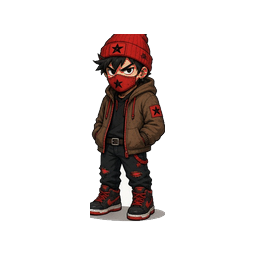
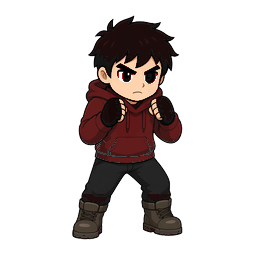
Lock Hooligan canon grey/blue/red for upgrade levels
Deposit approved combat/disguise ladder into game/public and agent
assets, colorize blue/red from grey C, and document HOOLIGAN_CANON
as the only source for new game versions.

Changed region(s): [[0.2812, 0.0625, 0.7188, 0.9375]]

diff --git a/unit-icons-agent/docs/gallery/unit-icons-cutouts.html b/unit-icons-agent/docs/gallery/unit-icons-cutouts.html
@@ -172,9 +172,9 @@
       </tr>
     </thead>
     <tbody>
-      <tr><th scope="row">Grau</th><td><div class="slot"><img src="../../assets/units/hooligan-grey-1.png" alt="hooligan-grey-1.png" width="128" height="128" loading="lazy" /><code>hooligan-grey-1.png</code></div></td><td><div class="slot"><img src="../../assets/units/hooligan-grey-2.png" alt="hooligan-grey-2.png" width="128" height="128" loading="lazy" /><code>hooligan-grey-2.png</code></div></td><td><div class="slot"><img src="../../assets/units/hooligan-grey-3.png" alt="hooligan-grey-3.png" width="128" height="128" loading="lazy" /><code>hooligan-grey-3.png</code></div></td><td><div class="slot"><img src="../../assets/units/hooligan-grey-4.png" alt="hooligan-grey-4.png" width="128" height="128" loading="lazy" /><code>hooligan-grey-4.png</code></div></td><td><div class="slot"><img src="../../assets/units/hooligan-grey-5.png" alt="hooligan-grey-5.png" width="128" height="128" loading="lazy" /><code>hooligan-grey-5.png</code></div></td></tr>
-<tr><th scope="row">Blau</th><td><div class="slot"><img src="../../assets/units/hooligan-blue-1.png" alt="hooligan-blue-1.png" width="128" height="128" loading="lazy" /><code>hooligan-blue-1.png</code></div></td><td><div class="slot"><img src="../../assets/units/hooligan-blue-2.png" alt="hooligan-blue-2.png" width="128" height="128" loading="lazy" /><code>hooligan-blue-2.png</code></div></td><td><div class="slot"><img src="../../assets/units/hooligan-blue-3.png" alt="hooligan-blue-3.png" width="128" height="128" loading="lazy" /><code>hooligan-blue-3.png</code></div></td><td><div class="slot"><img src="../../assets/units/hooligan-blue-4.png" alt="hooligan-blue-4.png" width="128" height="128" loading="lazy" /><code>hooligan-blue-4.png</code></div></td><td><div class="slot"><img src="../../assets/units/hooligan-blue-5.png" alt="hooligan-blue-5.png" width="128" height="128" loading="lazy" /><code>hooligan-blue-5.png</code></div></td></tr>
-<tr><th scope="row">Rot</th><td><div class="slot"><img src="../../assets/units/hooligan-red-1.png" alt="hooligan-red-1.png" width="128" height="128" loading="lazy" /><code>hooligan-red-1.png</code></div></td><td><div class="slot"><img src="../../assets/units/hooligan-red-2.png" alt="hooligan-red-2.png" width="128" height="128" loading="lazy" /><code>hooligan-red-2.png</code></div></td><td><div class="slot"><img src="../../assets/units/hooligan-red-3.png" alt="hooligan-red-3.png" width="128" height="128" loading="lazy" /><code>hooligan-red-3.png</code></div></td><td><div class="slot"><img src="../../assets/units/hooligan-red-4.png" alt="hooligan-red-4.png" width="128" height="128" loading="lazy" /><code>hooligan-red-4.png</code></div></td><td><div class="slot"><img src="../../assets/units/hooligan-red-5.png" alt="hooligan-red-5.png" width="128" height="128" loading="lazy" /><code>hooligan-red-5.png</code></div></td></tr>
+      <tr><th scope="row">Grau</th><td><div class="slot"><img src="../../../game/public/icons/units/hooligan-grey-1.png" alt="hooligan-grey-1.png" width="128" height="128" loading="lazy" /><code>hooligan-grey-1.png</code></div></td><td><div class="slot"><img src="../../../game/public/icons/units/hooligan-grey-2.png" alt="hooligan-grey-2.png" width="128" height="128" loading="lazy" /><code>hooligan-grey-2.png</code></div></td><td><div class="slot"><img src="../../../game/public/icons/units/hooligan-grey-3.png" alt="hooligan-grey-3.png" width="128" height="128" loading="lazy" /><code>hooligan-grey-3.png</code></div></td><td><div class="slot"><img src="../../../game/public/icons/units/hooligan-grey-4.png" alt="hooligan-grey-4.png" width="128" height="128" loading="lazy" /><code>hooligan-grey-4.png</code></div></td><td><div class="slot"><img src="../../../game/public/icons/units/hooligan-grey-5.png" alt="hooligan-grey-5.png" width="128" height="128" loading="lazy" /><code>hooligan-grey-5.png</code></div></td></tr>
+<tr><th scope="row">Blau</th><td><div class="slot"><img src="../../../game/public/icons/units/hooligan-blue-1.png" alt="hooligan-blue-1.png" width="128" height="128" loading="lazy" /><code>hooligan-blue-1.png</code></div></td><td><div class="slot"><img src="../../../game/public/icons/units/hooligan-blue-2.png" alt="hooligan-blue-2.png" width="128" height="128" loading="lazy" /><code>hooligan-blue-2.png</code></div></td><td><div class="slot"><img src="../../../game/public/icons/units/hooligan-blue-3.png" alt="hooligan-blue-3.png" width="128" height="128" loading="lazy" /><code>hooligan-blue-3.png</code></div></td><td><div class="slot"><img src="../../../game/public/icons/units/hooligan-blue-4.png" alt="hooligan-blue-4.png" width="128" height="128" loading="lazy" /><code>hooligan-blue-4.png</code></div></td><td><div class="slot"><img src="../../../game/public/icons/units/hooligan-blue-5.png" alt="hooligan-blue-5.png" width="128" height="128" loading="lazy" /><code>hooligan-blue-5.png</code></div></td></tr>
+<tr><th scope="row">Rot</th><td><div class="slot"><img src="../../../game/public/icons/units/hooligan-red-1.png" alt="hooligan-red-1.png" width="128" height="128" loading="lazy" /><code>hooligan-red-1.png</code></div></td><td><div class="slot"><img src="../../../game/public/icons/units/hooligan-red-2.png" alt="hooligan-red-2.png" width="128" height="128" loading="lazy" /><code>hooligan-red-2.png</code></div></td><td><div class="slot"><img src="../../../game/public/icons/units/hooligan-red-3.png" alt="hooligan-red-3.png" width="128" height="128" loading="lazy" /><code>hooligan-red-3.png</code></div></td><td><div class="slot"><img src="../../../game/public/icons/units/hooligan-red-4.png" alt="hooligan-red-4.png" width="128" height="128" loading="lazy" /><code>hooligan-red-4.png</code></div></td><td><div class="slot"><img src="../../../game/public/icons/units/hooligan-red-5.png" alt="hooligan-red-5.png" width="128" height="128" loading="lazy" /><code>hooligan-red-5.png</code></div></td></tr>
     </tbody>
   </table>
 </section>

diff --git a/unit-icons-agent/bot/tools/list_cutout_unit_icons.ts b/unit-icons-agent/bot/tools/list_cutout_unit_icons.ts
@@ -37,6 +37,7 @@ export default defineTool({
           "Basis-Icons ohne Farb-Suffix (z.B. fan-1.png) werden ignoriert.",
           "Fans: Kanon docs/icons/FAN_CANON.md — game/public/icons/units/fan-*.png",
           "Ordner: Kanon docs/icons/ORDNER_CANON.md — game/public/icons/units/ordner-*.png",
+          "Hooligans: Kanon docs/icons/HOOLIGAN_CANON.md — game/public/icons/units/hooligan-*.png",
         ],
       },
       rootsScanned: roots,

diff --git a/docs/icons/HOOLIGAN_CANON.md b/docs/icons/HOOLIGAN_CANON.md
@@ -1,0 +1,61 @@
+# Hooligan-Icons — verbindlicher Kanon
+
+**Status:** freigegeben für alle neuen Spielversionen  
+**Stand:** 2026-10-08  
+**Quelle der Wahrheit:** `game/public/icons/units/hooligan-{grey|blue|red}-{1..5}.png`
+
+Ältere Hooligan-Varianten (andere Waffen-/Vermummungs-Leiter, Vorschläge A/B/C unter `unit-icons-agent/docs/hooligan-progression/proposals/`) dürfen **nicht** mehr für neue Builds, Mockups oder Agent-Generierungen verwendet werden.
+
+Maschinenlesbar: [`hooligan-canon.json`](./hooligan-canon.json)  
+Übersicht: [`hooligans-all-colors.png`](./hooligans-all-colors.png)
+
+## Dateipfade
+
+| Farbe | Pfade |
+| --- | --- |
+| Grau (neutral) | `game/public/icons/units/hooligan-grey-1.png` … `hooligan-grey-5.png` |
+| Blau (Heim) | `game/public/icons/units/hooligan-blue-1.png` … `hooligan-blue-5.png` |
+| Rot (Gäste) | `game/public/icons/units/hooligan-red-1.png` … `hooligan-red-5.png` |
+
+Spiegel: `unit-icons-agent/assets/units/hooligan-*.png`  
+Arbeitsnotizen: `unit-icons-agent/docs/hooligan-progression/` (nur Doku).
+
+## Stil
+
+- Alte Chibi-Hooligan-Vorlage: großer Kopf, kurze Beine, dicke Outlines, Cel-Shading
+- **Ganzfigurig**, 256×256 PNG RGBA freigestellt, Figur komplett im Frame
+- Teamfarbe auf Hoodie/Jacke, Beanie und Mundschutz; Waffen behalten Materialfarbe (Holz/Metall)
+
+## Vermummung
+
+| Level | Look |
+| --- | --- |
+| 1 | eher offen (Hoodie, Kapuze runter, Gesicht sichtbar) |
+| 2–3 | Beanie + Mundschutz/Gaiter |
+| 4 | + Sonnenbrille |
+| 5 | max: Kapuze hoch + Beanie + Brille + Gaiter |
+
+## Upgrade-Stufen (Hände / Waffen)
+
+| Level | Ausstattung |
+| --- | --- |
+| 1 | **Boxhaltung** (Fäuste hoch, Guard) — keine Waffe |
+| 2 | **Fingerschlagringe** |
+| 3 | **Baseballschläger** |
+| 4 | **Stemmeisen** |
+| 5 | **Eisenkette + Schloss** |
+
+## Regeln für Agents & neue Versionen
+
+1. Nur die 15 Dateien unter `game/public/icons/units/hooligan-{color}-{level}.png` laden.
+2. Keine Regeneration der Hooligans, solange dieser Kanon gilt — außer ausdrücklicher Revisions-Auftrag.
+3. Neue Spielstände / Branches übernehmen diese Pfade.
+4. Fans und Ordner haben eigene Kanons (`FAN_CANON.md`, `ORDNER_CANON.md`); Ultras sind getrennt.
+
+## Kurz-Check
+
+- [ ] Dateiname `hooligan-{grey|blue|red}-{1-5}.png`
+- [ ] Ganzfigur, nichts abgeschnitten
+- [ ] Lv1 Boxhaltung ohne Waffe
+- [ ] Props: Schlagring → Baseball → Stemmeisen → Kette+Schloss
+- [ ] Vermummung eskaliert bis Lv5

diff --git a/unit-icons-agent/docs/hooligan-progression/README.md b/unit-icons-agent/docs/hooligan-progression/README.md
@@ -1,19 +1,21 @@
-# Hooligan-Progression (Arbeit)
+# Hooligan-Progression
 
-**Stilbasis:** alte Chibi-Hooligans (`refs/user-old-hooligans-lv3.jpg`).
+> **Kanon freigegeben:**  
+> [`docs/icons/HOOLIGAN_CANON.md`](../../../docs/icons/HOOLIGAN_CANON.md)
 
-## Vorschlag C (aktuell) — Vermummung + Waffen-Eskalation
+**Für neue Spielversionen** immer `game/public/icons/units/hooligan-*.png` verwenden.
+
+**Stilbasis:** alte Chibi-Hooligans (`refs/user-old-hooligans-lv3.jpg`).  
+Finale Ablage: [`final/`](./final/) · Übersicht: [`final/all-colors.png`](./final/all-colors.png).
+
+## Freigegebene Leiter
 
 | Level | Vermummung | Hände / Waffe |
 | --- | --- | --- |
-| 1 | eher offen (Hoodie, Kapuze runter) | **Boxhaltung** (Fäuste hoch, Guard) |
+| 1 | eher offen | **Boxhaltung** |
 | 2 | Beanie + Mundschutz | **Fingerschlagringe** |
 | 3 | wie Lv2 | **Baseballschläger** |
 | 4 | + Sonnenbrille | **Stemmeisen** |
-| 5 | max (Kapuze hoch + Brille + Gaiter) | **Eisenkette + Schloss** |
+| 5 | max Vermummung | **Eisenkette + Schloss** |
 
-Ganzfigurig, grau zuerst.
-
-- A = erster Wurf  
-- B = erste Waffen-Runde  
-- **C = Boxhaltung + klare Schlagringe + Stemmeisen → Kette**
+Vorschläge A/B/C unter `proposals/` sind nur Historie — **nicht** Runtime.

diff --git a/unit-icons-agent/bot/instructions.md b/unit-icons-agent/bot/instructions.md
@@ -18,6 +18,7 @@ For any new game version, mockup, or recommendation:
 | --- | --- | --- |
 | Fans | `docs/icons/FAN_CANON.md` | `game/public/icons/units/fan-{grey\|blue\|red}-{1..5}.png` |
 | Ordner | `docs/icons/ORDNER_CANON.md` | `game/public/icons/units/ordner-{grey\|blue\|red}-{1..5}.png` |
+| Hooligans | `docs/icons/HOOLIGAN_CANON.md` | `game/public/icons/units/hooligan-{grey\|blue\|red}-{1..5}.png` |
 
 Mirrored under `assets/units/`. Do **not** revive legacy art or invent a different gear ladder unless the user explicitly asks to revise the canon.
 
@@ -28,7 +29,7 @@ Bundled snapshot: `assets/units/`. Also scan `game/public/icons/units/` when pre
 1. Call `list_cutout_unit_icons`.
 2. Call `build_unit_icon_gallery` so the user gets a browsable HTML grid.
 3. Call `record_icon_inventory` once with counts, missing filenames, and gallery path.
-4. Reply short in German: how many found of 60, gallery path, and any missing files. Mention Fans → `FAN_CANON`, Ordner → `ORDNER_CANON`.
+4. Reply short in German: how many found of 60, gallery path, and any missing files. Mention Fans → `FAN_CANON`, Ordner → `ORDNER_CANON`, Hooligans → `HOOLIGAN_CANON`.
 
 ## Memory
 

diff --git a/docs/icons/README.md b/docs/icons/README.md
@@ -6,7 +6,8 @@
 | --- | --- | --- |
 | **Fans** | [`FAN_CANON.md`](./FAN_CANON.md) · [`fan-canon.json`](./fan-canon.json) | `game/public/icons/units/fan-*.png` |
 | **Ordner** | [`ORDNER_CANON.md`](./ORDNER_CANON.md) · [`ordner-canon.json`](./ordner-canon.json) | `game/public/icons/units/ordner-*.png` |
+| **Hooligans** | [`HOOLIGAN_CANON.md`](./HOOLIGAN_CANON.md) · [`hooligan-canon.json`](./hooligan-canon.json) | `game/public/icons/units/hooligan-*.png` |
 
-Übersichten: [`fans-all-colors.png`](./fans-all-colors.png) · [`ordners-all-colors.png`](./ordners-all-colors.png)
+Übersichten: [`fans-all-colors.png`](./fans-all-colors.png) · [`ordners-all-colors.png`](./ordners-all-colors.png) · [`hooligans-all-colors.png`](./hooligans-all-colors.png)
 
-Für **neue Spielversionen** nur diese freigegebenen Dateien verwenden. Ultras/Hooligans/Stände haben eigene Manifeste.
+Für **neue Spielversionen** nur diese freigegebenen Dateien verwenden. Ultras/Stände haben eigene Manifeste.

diff --git a/unit-icons-agent/README.md b/unit-icons-agent/README.md
@@ -10,6 +10,7 @@ Zieht die abgelegten Unit-Cutouts und zeigt alle Varianten in **Grau / Blau / Ro
 | --- | --- | --- |
 | Fans | [`FAN_CANON.md`](../docs/icons/FAN_CANON.md) | `../game/public/icons/units/fan-*.png` |
 | Ordner | [`ORDNER_CANON.md`](../docs/icons/ORDNER_CANON.md) | `../game/public/icons/units/ordner-*.png` |
+| Hooligans | [`HOOLIGAN_CANON.md`](../docs/icons/HOOLIGAN_CANON.md) | `../game/public/icons/units/hooligan-*.png` |
 
 Spiegel für den Agent: `assets/units/`.
 
@@ -17,7 +18,7 @@ Spiegel für den Agent: `assets/units/`.
 
 | Quelle | Rolle |
 | --- | --- |
-| `../game/public/icons/units/` | **Runtime / Kanon** (Fans + Ordner) |
+| `../game/public/icons/units/` | **Runtime / Kanon** (Fans + Ordner + Hooligans) |
 | `assets/units/` | Bundled Spiegel für den Agent |
 | `../docs/icons/*_CANON.md` | Verbindliche Regeln |
 

diff --git a/unit-icons-agent/bot/skills/show-cutout-units.md b/unit-icons-agent/bot/skills/show-cutout-units.md
@@ -21,8 +21,9 @@ Farben: `grey` (Grau), `blue` (Blau), `red` (Rot). Erwartung: **4 × 3 × 5 = 60
 | --- | --- | --- |
 | Fans | `docs/icons/FAN_CANON.md` | Trikot+Bier → Fähnchen → Cap+Schal → große Fahne; Nummer=Level |
 | Ordner | `docs/icons/ORDNER_CANON.md` | Funk → Stock → Stock+Pads → Schild+Pistole → Schild+MG; Cap/Helm-Nummer=Level; Warnweste immer |
+| Hooligans | `docs/icons/HOOLIGAN_CANON.md` | Boxen → Schlagring → Baseball → Stemmeisen → Kette+Schloss; Vermummung eskaliert |
 
-Runtime: `game/public/icons/units/{fan\|ordner}-{grey\|blue\|red}-{1..5}.png`  
+Runtime: `game/public/icons/units/{fan\|ordner\|hooligan}-{grey\|blue\|red}-{1..5}.png`  
 Keine Legacy-Varianten regenerieren oder empfehlen.
 
 ## Ablauf

diff --git a/docs/icons/FAN_CANON.md b/docs/icons/FAN_CANON.md
@@ -50,7 +50,7 @@ Arbeitsnotizen/History: `unit-icons-agent/docs/fan-progression/` (nur Dokumentat
 1. Nur die 15 Dateien unter `game/public/icons/units/fan-{color}-{level}.png` laden.
 2. Keine Regeneration der Fans, solange dieser Kanon gilt — außer ausdrücklicher Auftrag zur Revision.
 3. Neue Spielstände / Branches übernehmen diese Pfade; unfarbige Legacy-Dateien `fan-1.png`…`fan-5.png` nicht als Ersatz nutzen.
-4. Ultras, Hooligans, Ordner sind **andere** Units — dieses Dokument gilt nur für **Fans**.
+4. Ultras, Hooligans, Ordner sind **andere** Units — dieses Dokument gilt nur für **Fans** (Hooligans: `HOOLIGAN_CANON.md`, Ordner: `ORDNER_CANON.md`).
 
 ## Kurz-Check
 

diff --git a/README.md b/README.md
@@ -10,5 +10,6 @@ Für **neue Spielversionen** gelten ausschließlich die freigegebenen Ganzkörpe
 | --- | --- | --- |
 | Fans | [`docs/icons/FAN_CANON.md`](docs/icons/FAN_CANON.md) | `game/public/icons/units/fan-{grey\|blue\|red}-{1..5}.png` |
 | Ordner | [`docs/icons/ORDNER_CANON.md`](docs/icons/ORDNER_CANON.md) | `game/public/icons/units/ordner-{grey\|blue\|red}-{1..5}.png` |
+| Hooligans | [`docs/icons/HOOLIGAN_CANON.md`](docs/icons/HOOLIGAN_CANON.md) | `game/public/icons/units/hooligan-{grey\|blue\|red}-{1..5}.png` |
 
 Ältere Grafiken derselben Typen nicht mehr verwenden.

diff --git a/docs/icons/ORDNER_CANON.md b/docs/icons/ORDNER_CANON.md
@@ -49,7 +49,7 @@ Arbeitsnotizen: `unit-icons-agent/docs/ordner-progression/` (nur Doku).
 1. Nur die 15 Dateien unter `game/public/icons/units/ordner-{color}-{level}.png` laden.
 2. Keine Regeneration der Ordner, solange dieser Kanon gilt — außer ausdrücklicher Revisions-Auftrag.
 3. Neue Spielstände / Branches übernehmen diese Pfade.
-4. Fans haben einen eigenen Kanon (`FAN_CANON.md`); Ultras/Hooligans sind getrennt.
+4. Fans und Hooligans haben eigene Kanons (`FAN_CANON.md`, `HOOLIGAN_CANON.md`); Ultras sind getrennt.
 
 ## Kurz-Check
 

diff --git a/game/public/icons/units/README.md b/game/public/icons/units/README.md
@@ -6,3 +6,4 @@
 | --- | --- | --- |
 | Fans | `fan-{grey\|blue\|red}-{1..5}.png` | [`docs/icons/FAN_CANON.md`](../../../../docs/icons/FAN_CANON.md) |
 | Ordner | `ordner-{grey\|blue\|red}-{1..5}.png` | [`docs/icons/ORDNER_CANON.md`](../../../../docs/icons/ORDNER_CANON.md) |
+| Hooligans | `hooligan-{grey\|blue\|red}-{1..5}.png` | [`docs/icons/HOOLIGAN_CANON.md`](../../../../docs/icons/HOOLIGAN_CANON.md) |
